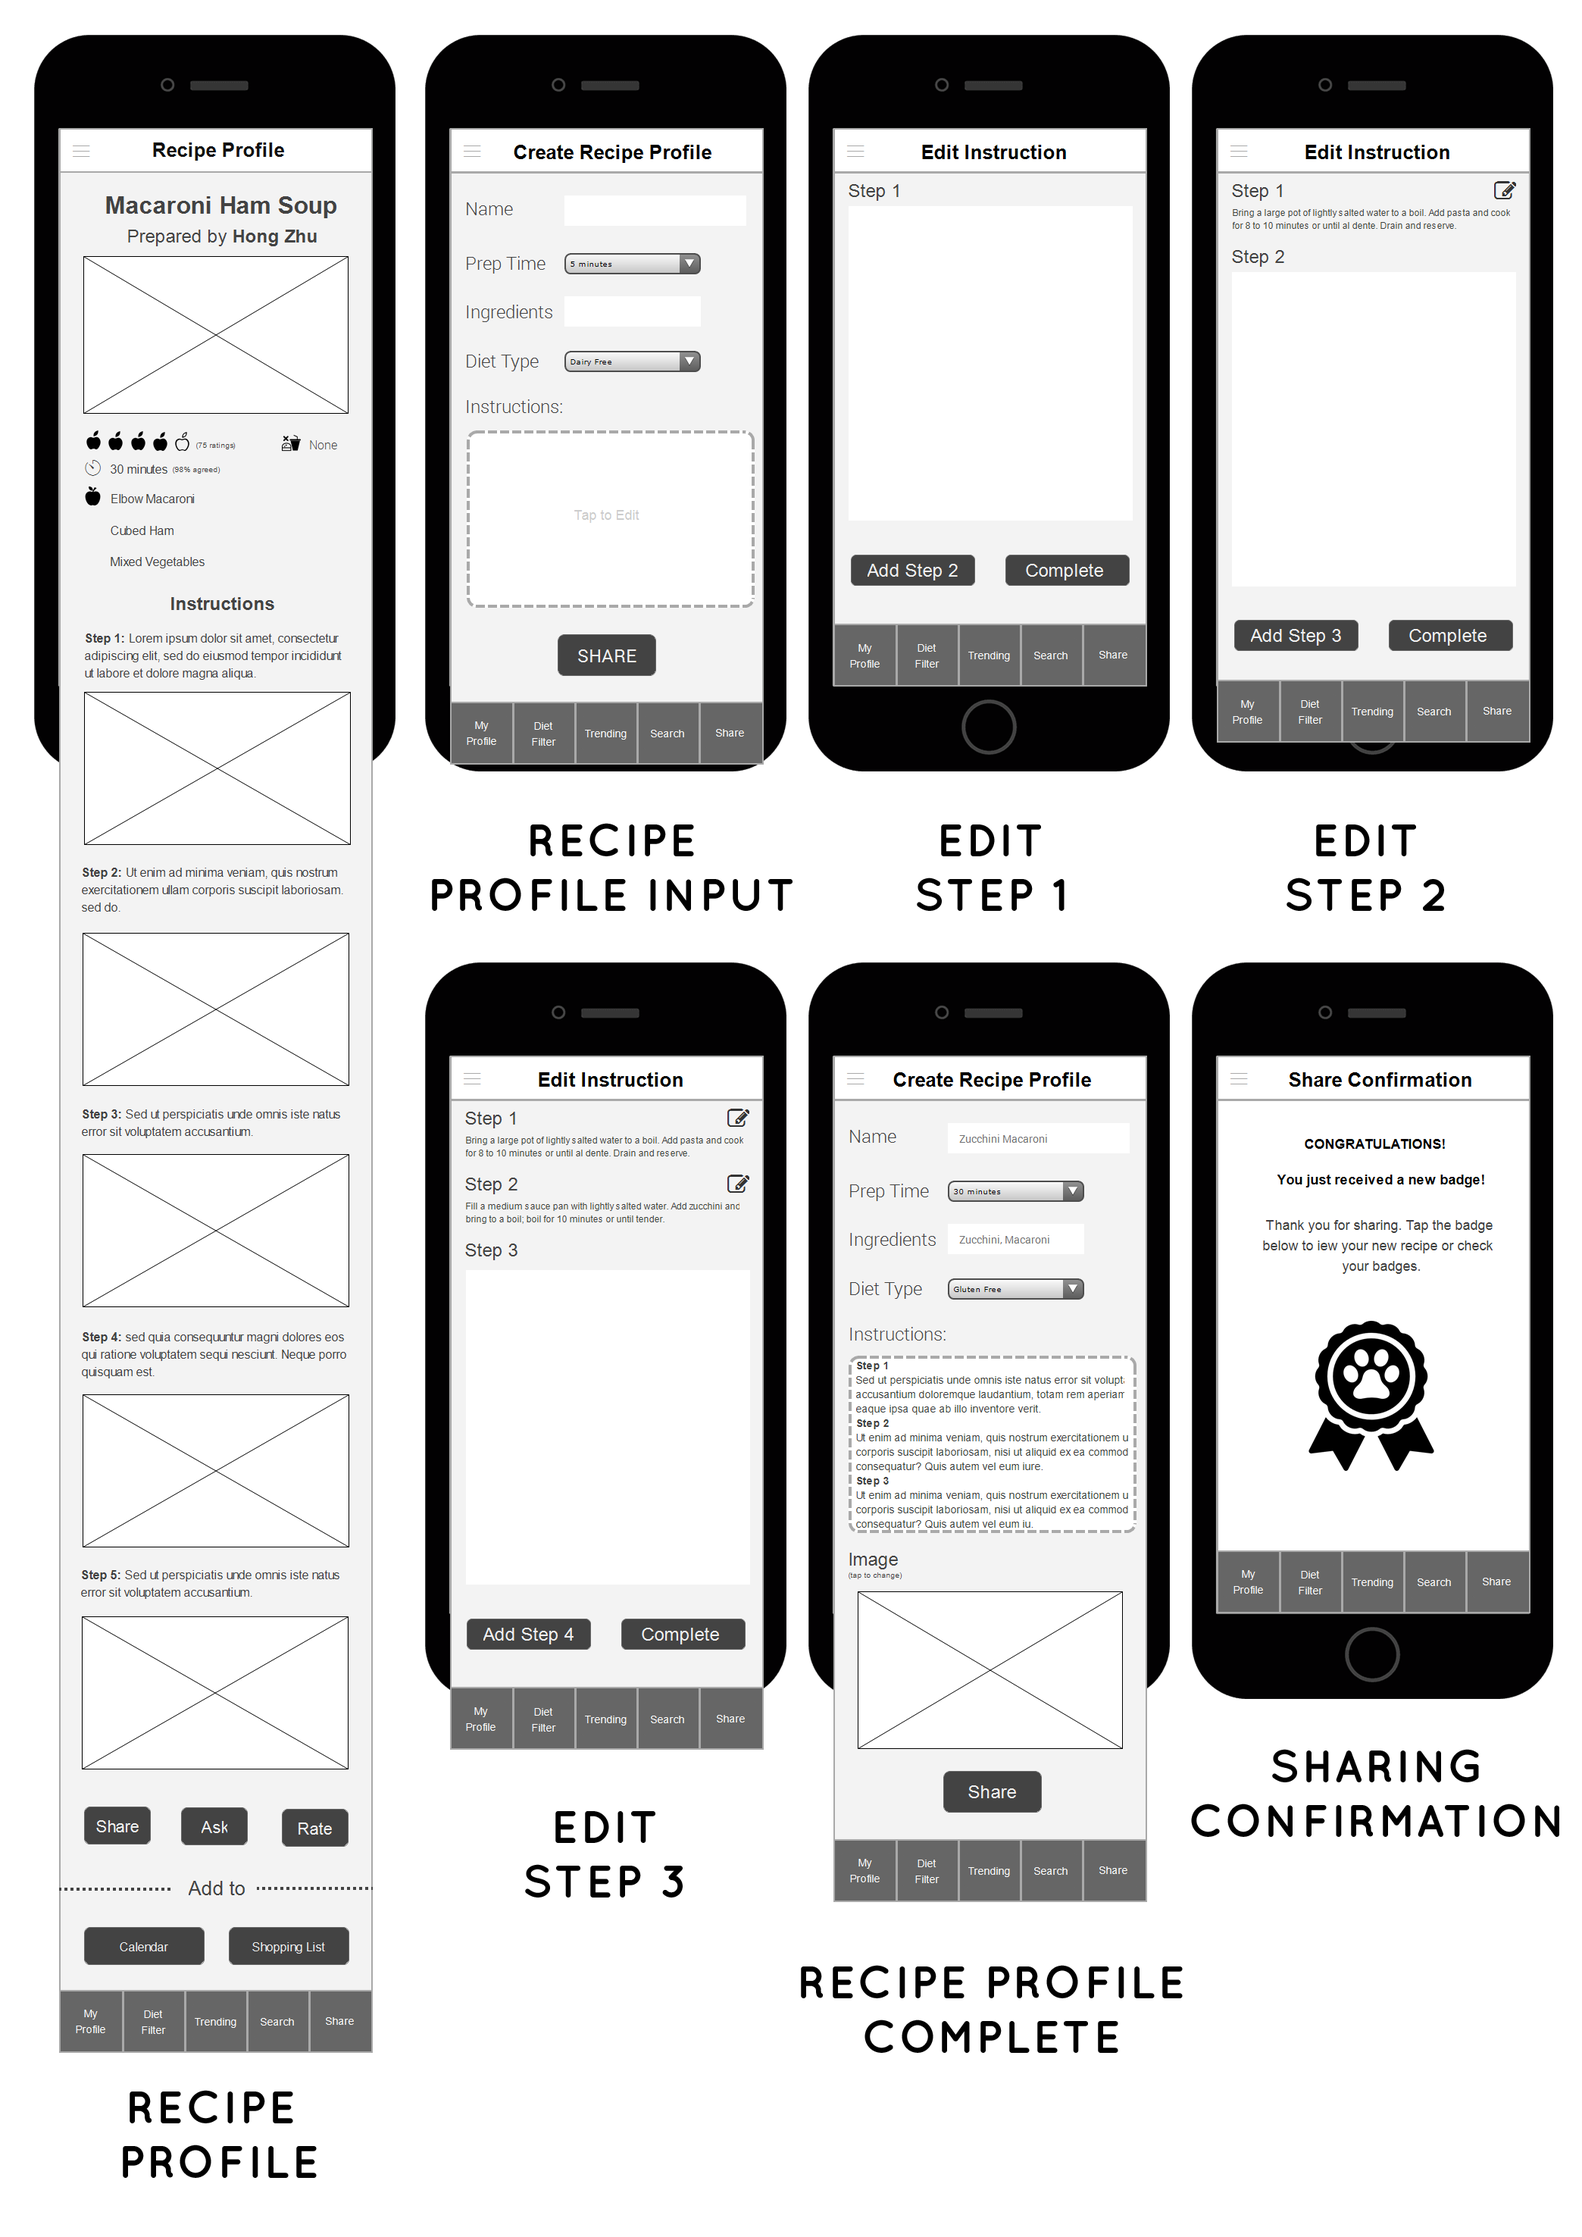
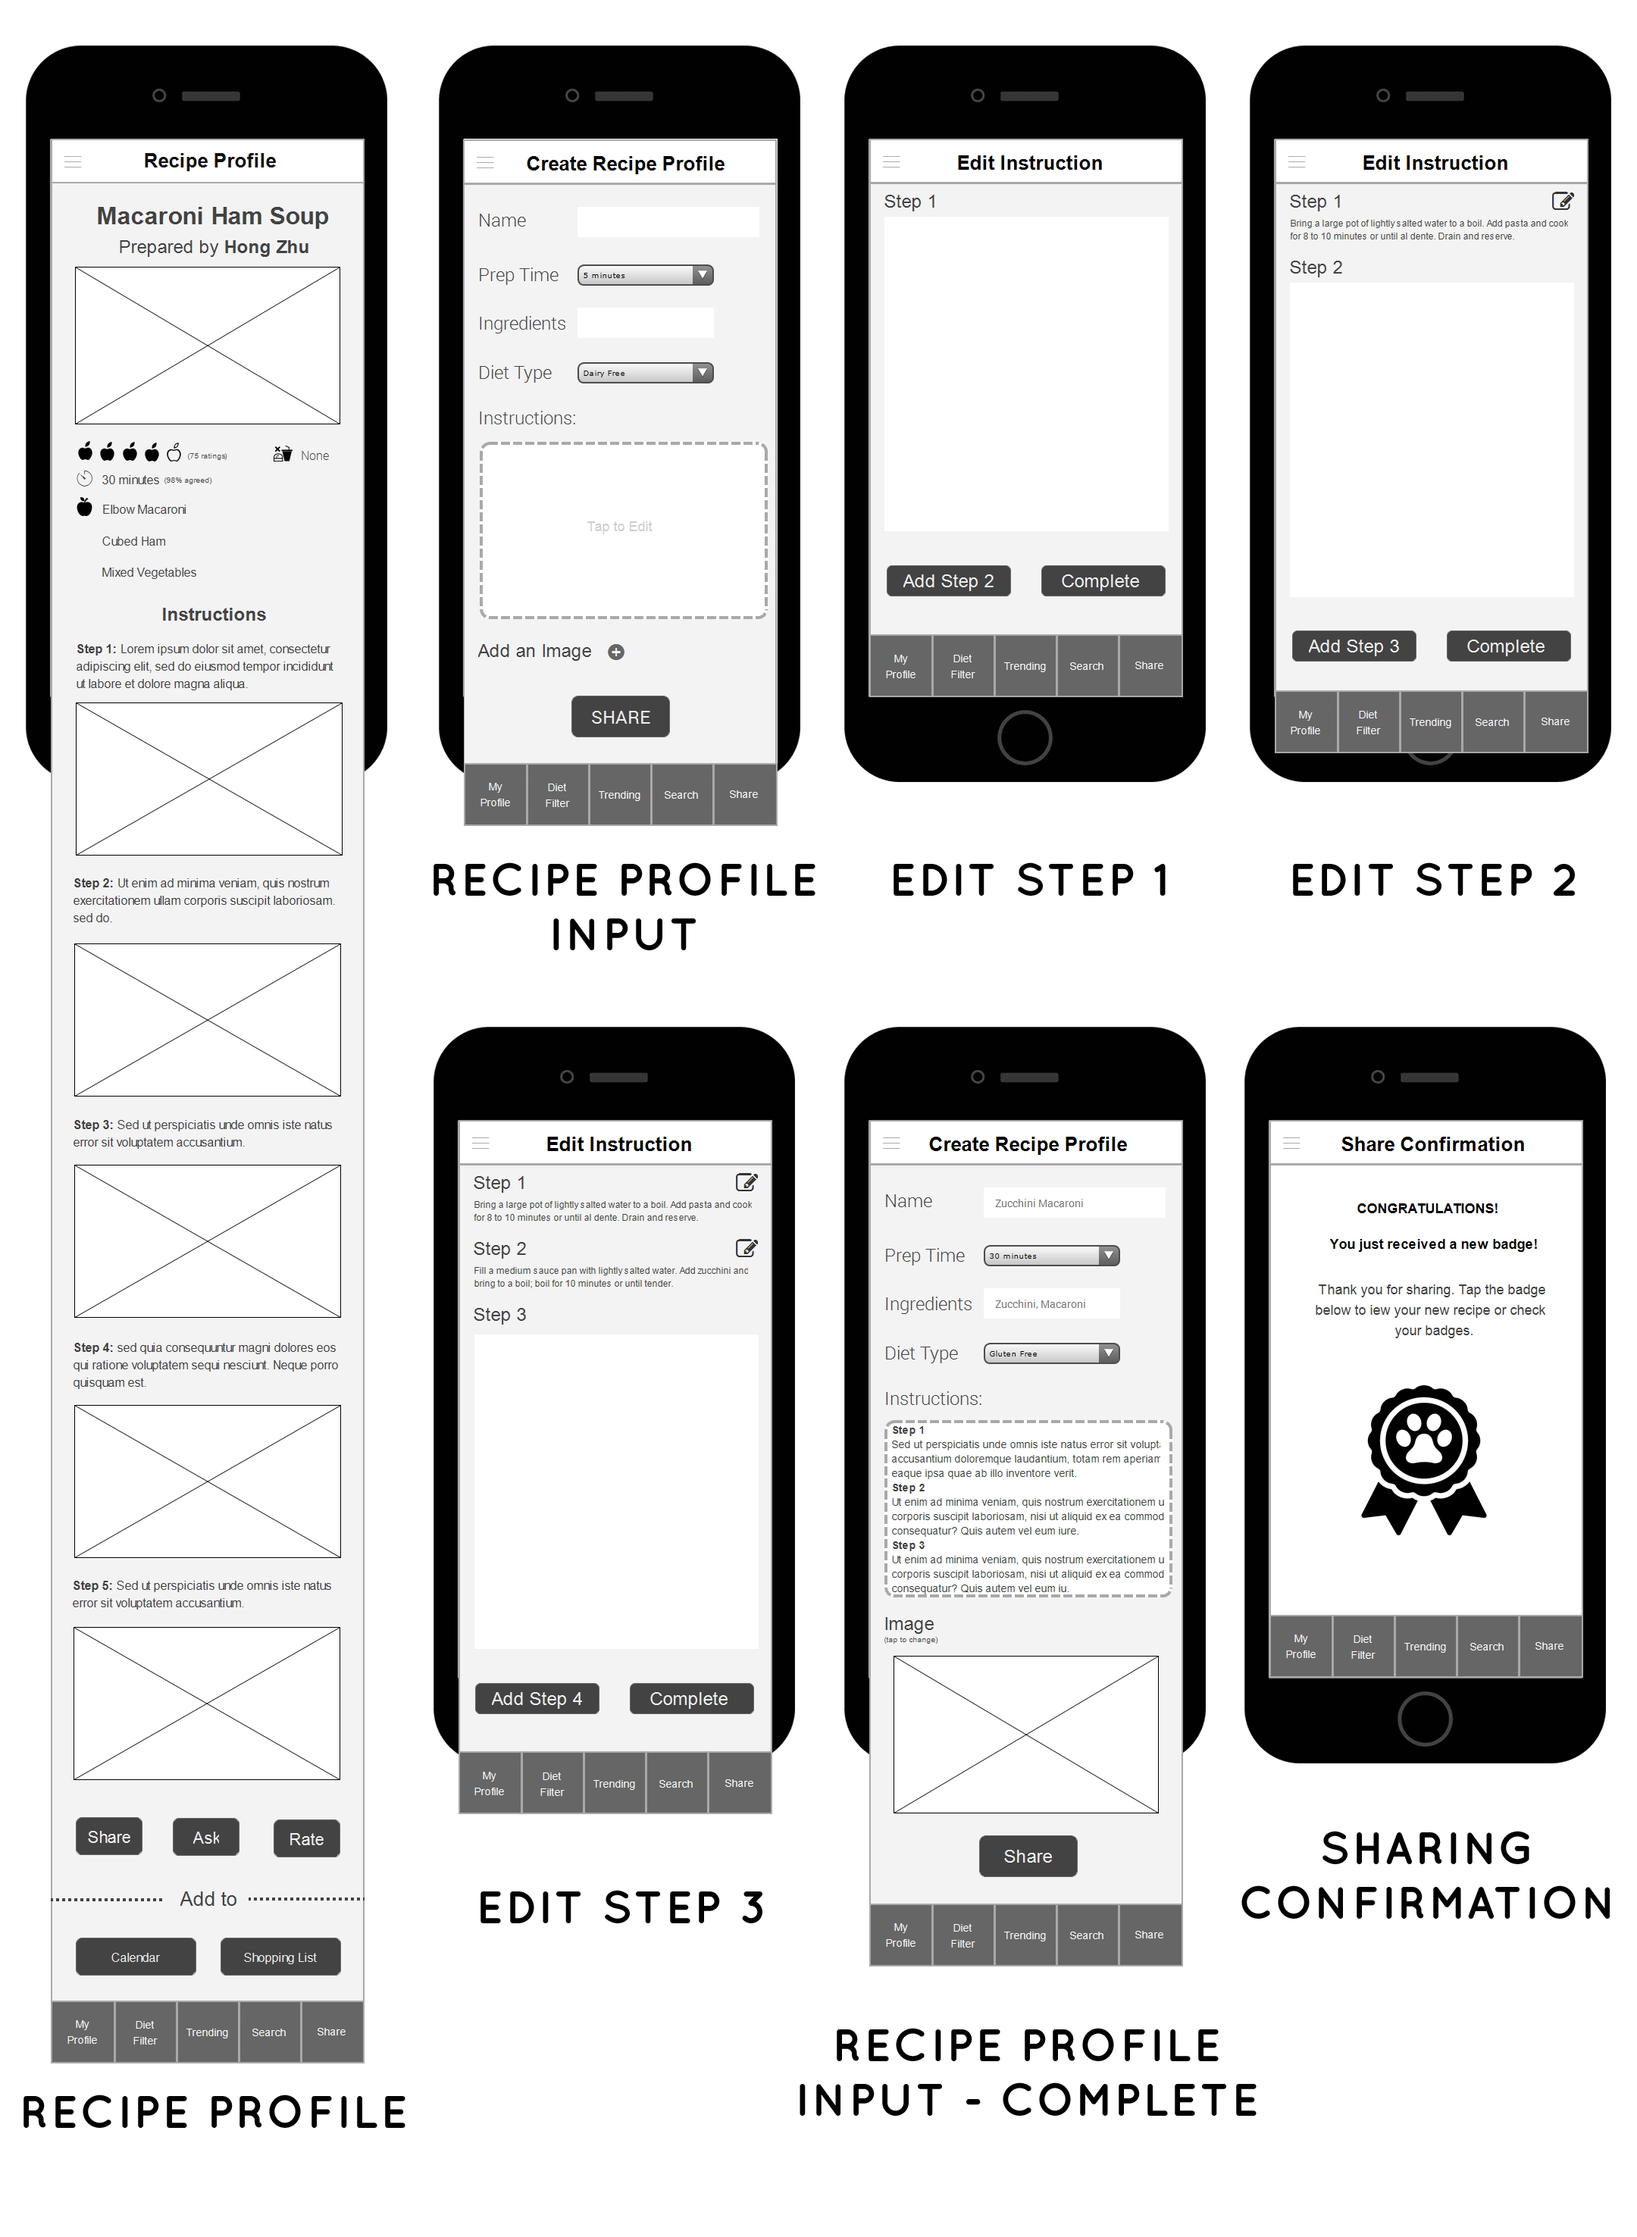
added more wireframes

Changed region(s): [[0.0, 0.0, 0.9962, 0.9973], [0.3736, 0.2182, 0.4047, 0.2493]]

diff --git a/index.html b/index.html
@@ -625,8 +625,74 @@
 							<img src="img/portfolio/huskyyum wireframe 3.png" class="img-responsive img-centered" alt="">
 							<img src="img/portfolio/huskyyum wireframe 4.png" class="img-responsive img-centered" alt="">
 							<img src="img/portfolio/huskyyum wireframe 5.png" class="img-responsive img-centered" alt="">
-							<p><b>Current Progress/Updates</b></p>
-							<p>Presently, these wireframes are being used for the first round of usability testing, conducted via the <b>"Think-Aloud Protocol" method</b>.</p>
+
+							<h4>Usability Testing</h4>
+							<p>Using the <b>"Think-Aloud Protocol" method</b>, a usability test was conducted with a total number of seven UW students.The test focused on the user’s ability to search, post and utilize other product features. Usability test tasks were designed to assess the accessibility and understandability of the end-t-end user flow for the app's major features.</p>
+							<p>Participants of the usability test were UW students interested in healthy eating on and around campus. If students were in some capacity interested in eating healthily, they were recruited to be participants as they represent the ideal target audience for the app. The test was conducted with both undergraduate and graduate students.</p>
+
+							<p>Concept-wise, the test revealed users' desire to see a focus on not only homemade meals/recipes, but also meals that they may find from eating out at restaurants, bistros, cafes etc. In this regards, the ability to find, discover, and share healthy "menu items" was an important addition of which the usability test has provided.</p>
+
+							<p>On the other hand, below is a list of other key findings and changes made:</p>
+							<p><b>ISSUE 1:</b> Users are confused about the process of sharing a new homemade recipe.</p>
+							<p><b>Solutions:</b></p>
+							<ul>
+								<li>Replace the word "Share" with "Post".</li>
+								<li>Implement a vivid "Post" button on the "Trending" page.</li>
+								<li>Remove the ability to share and ask about existing recipes. Only allow users to post new recipes.</li>
+								<li>Allow users to access the "Search" and "Post" features from the burger menu.</li>
+								<li>Develop the burger menu to include all of these options: My Profile, Search Recipes, Search Menu Items, Post Recipes, and Post Menu Items.</li>
+							</ul>
+
+							<p><b>ISSUE 2:</b> Users can't locate the "Search" feature to filter and find recipes.</p>
+							<p><b>Solutions:</b></p>
+							<ul>
+								<li>Remove fixed menu located at the bottom of the screen.</li>
+								<li>Implement a search bar at the top of every page (except for the "Trending" page).</li>
+								<li>On the "Trending" page, put the "Post" and "Search" buttons next to each other.</li>
+							</ul>
+
+							<p><b>ISSUE 3:</b> Users don't quite understand what the "Trending" page means.</p>
+							<p><b>Solutions:</b></p>
+							<ul>
+								<li>Redesign the "Trending" page's user interface to make it more visual with less text.</li>
+								<li>Include a photo of the homemade recipe or menu item in question.</li>
+								<li>Present only the top 5 homemade recipes or menu items as rated by the HuskyYum community.</li>
+								<li>Allow users to easily navigate through the top 5 homemade recipes or menu items by swiping right or left.</li>
+								<li>Implement two tabs close to the top of the screen, "Homemade" and "Eat-out", so users can conveniently view either the top 5 homemade recipes or menu items (these tabs will also be visible during the "Search" process).</li>
+							</ul>
+
+							<p><b>ISSUE 4:</b> The "Add to Shopping List" feature is only visible after some deep scrolling.</p>
+							<p><b>Solutions:</b></p>
+							<ul>
+								<li>Remove the ability to collectively add all the ingredients included in a homemade recipe or menu item to the shopping list.</li>
+								<li>Allow users to add individual ingredients to the shopping list.</li>
+							</ul>
+
+							<p><b>ISSUE 5:</b> Users can't go back to the previous page when they want to.</p>
+							<p><b>Solutions:</b></p>
+							<ul>
+								<li>Add a "Back" button on the top-left corner of every page.</li>
+								<li>Transition the burger menu icon/button to the top-right corner.</li>
+							</ul>
+
+							<p><b>ISSUE 6:</b> The context of the "Dietary Filter" isn't clear on what some of the filters will screen out.</p>
+							<p><b>Solution:</b> Change the wording of "Dairy", "Egg", "Gluten", and "Peanut" to "Dairy-free", "Egg-free", "Gluten-free", and "Peanut-free".</p>
+
+							<p><b>ISSUE 7:</b> Users find the "Calendar" feature overall confusing and unnecessary.</p>
+							<p><b>Solution:</b> Remove the "Calendar" feature.</p>
+
+							<h4><b>Updated Wireframes</b></h4>
+							<img src="img/portfolio/huskyyum wireframe 6.png" class="img-responsive img-centered" alt="">
+							<img src="img/portfolio/huskyyum wireframe 7.png" class="img-responsive img-centered" alt="">
+							<img src="img/portfolio/huskyyum wireframe 8.png" class="img-responsive img-centered" alt="">
+							<img src="img/portfolio/huskyyum wireframe 9.png" class="img-responsive img-centered" alt="">
+							<img src="img/portfolio/huskyyum wireframe 10.png" class="img-responsive img-centered" alt="">
+							<img src="img/portfolio/huskyyum wireframe 11.png" class="img-responsive img-centered" alt="">
+							<img src="img/portfolio/huskyyum wireframe 12.png" class="img-responsive img-centered" alt="">
+							<img src="img/portfolio/huskyyum wireframe 13.png" class="img-responsive img-centered" alt="">
+							<img src="img/portfolio/huskyyum wireframe 14.png" class="img-responsive img-centered" alt="">
+							<img src="img/portfolio/huskyyum wireframe 15.png" class="img-responsive img-centered" alt="">
+							
                             
                             <button type="button" class="btn btn-default" data-dismiss="modal"><i class="fa fa-times"></i> Close</button>
                         </div>
